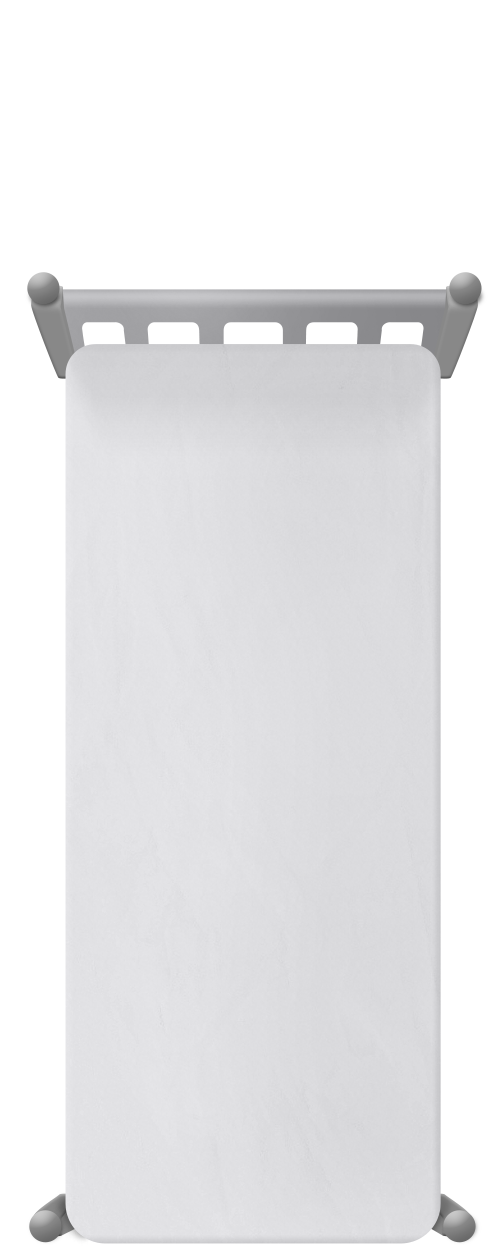
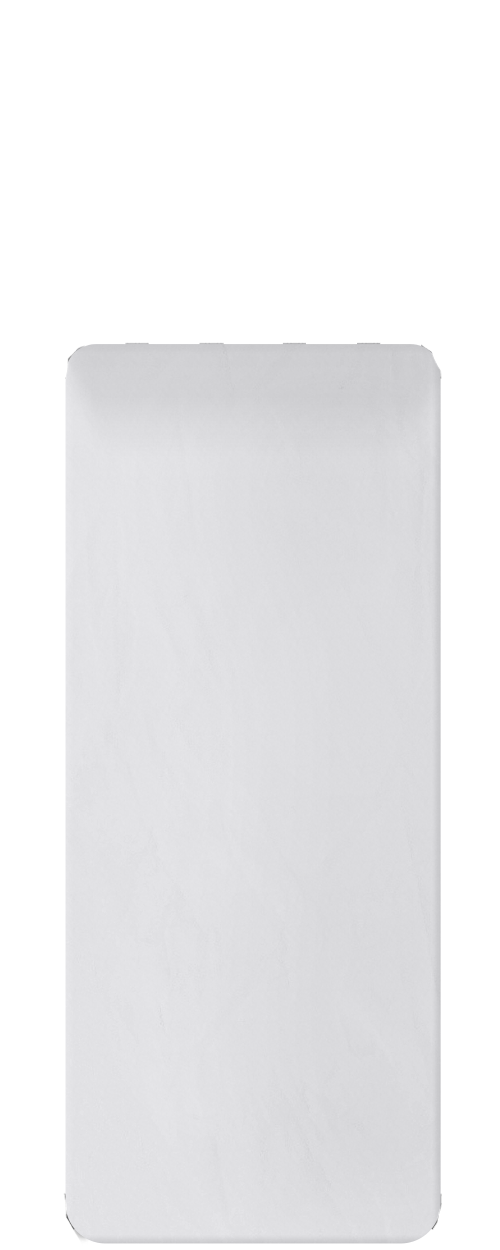
BlanketHood

Changed region(s): [[0.06, 0.2184, 0.96, 0.312], [0.87, 0.936, 0.96, 0.9984], [0.06, 0.936, 0.15, 0.9984]]

diff --git a/BondageClub/Assets/Female3DCG/Female3DCG.js b/BondageClub/Assets/Female3DCG/Female3DCG.js
@@ -1636,7 +1636,7 @@ var AssetFemale3DCG = [
 			  Block: ["ItemHands", "ItemVulva", "ItemButt", "ItemVulvaPiercings", "ItemNipplesPiercings"] },
 			{ Name: "PantyhoseBodyOpen", Fetish: ["Nylon"], Value: 75, Priority: 15, Difficulty: 3, SelfBondage: 4, Time: 30, RemoveTime: 20, Random: false, BuyGroup: "PantyhoseBody", AllowPose: ["Kneel"], SetPose: ["BackElbowTouch", "LegsClosed"], Effect: ["Block", "Prone"],
 			  Prerequisite: ["NotHogtied", "NotMounted", "NoFeetSpreader"], Hide: ["Cloth", "ClothLower", "Suit", "SuitLower"], Block: ["ItemHands",  "ItemNipplesPiercings"] },
-			  { Name: "WrappedBlanket", Extended: true, Value: 200, Difficulty: 15, SelfBondage: 3, Time: 40, RemoveTime: 30, Random: false, BuyGroup: "Bed", Prerequisite: ["NotSuspended", "NotHogtied", "NotKneelingSpread", "NoFeetSpreader"], Hide: ["Shoes", "Socks", "Cloth", "ClothLower", "Bra", "ItemNipplesPiercings", "ItemLegs"], HideItem: ["ItemFeetOrnateAnkleCuffs", "ItemFeetNylonRope", "ItemFeetHempRope", "ItemFeetLeatherBelt", "ItemFeetIrish8Cuffs", "ItemFeetDuctTape", "ItemFeetLeatherAnkleCuffs", "ItemNipplesLactationPump"], AllowPose: ["Kneel"], SetPose: ["BackElbowTouch", "LegsClosed"], Effect: ["Block", "Prone"], Block: ["ItemPelvis", "ItemTorso", "ItemBreast", "ItemHands", "ItemFeet", "ItemNipples", "ItemNipplesPiercings", "ItemVulva", "ItemVulvaPiercings", "ItemLegs", "ItemButt"], AllowType: ["ShouldersWrapped", "FeetWrapped", "FullWrapped"]},
+			  { Name: "WrappedBlanket", Extended: true, Value: -1, Difficulty: 15, SelfBondage: 3, Time: 40, RemoveTime: 30, Random: false, BuyGroup: "Bed", Prerequisite: ["NotSuspended", "NotHogtied", "NotKneelingSpread", "NoFeetSpreader"], Hide: ["Shoes", "Socks", "Cloth", "ClothLower", "Bra", "ItemNipplesPiercings", "ItemLegs"], HideItem: ["ItemFeetOrnateAnkleCuffs", "ItemFeetNylonRope", "ItemFeetHempRope", "ItemFeetLeatherBelt", "ItemFeetIrish8Cuffs", "ItemFeetDuctTape", "ItemFeetLeatherAnkleCuffs", "ItemNipplesLactationPump"], AllowPose: ["Kneel"], SetPose: ["BackElbowTouch", "LegsClosed"], Effect: ["Block", "Prone"], Block: ["ItemPelvis", "ItemTorso", "ItemBreast", "ItemHands", "ItemFeet", "ItemNipples", "ItemNipplesPiercings", "ItemVulva", "ItemVulvaPiercings", "ItemLegs", "ItemButt"], AllowType: ["ShouldersWrapped", "FeetWrapped", "FullWrapped"]},
 			AssetSpankingToys
 		],
 		Color: ["Default"]
@@ -2381,7 +2381,8 @@ var AssetFemale3DCG = [
 			{ Name: "PonyHood", Fetish: ["Pony"], Value: -1, Difficulty: 50, Time: 15, Random: false, AllowLock: true, DefaultColor: "#404040", Hide: ["HairFront", "HairBack", "Glasses", "ItemMouth", "ItemMouth2", "ItemMouth3", "HairAccessory1", "HairAccessory2", "Mask"], Effect: ["BlindHeavy", "DeafLight", "Prone", "GagNormal", "BlockMouth"], Block: ["ItemMouth", "ItemMouth2", "ItemMouth3", "ItemEars", "ItemNeck", "ItemHead", "ItemNose"] },
 			{ Name: "LeatherHoodOpenMouth", Fetish: ["Leather"], Value: 50, Difficulty: 50, Time: 15, AllowLock: true, DefaultColor: "#404040", Hide: ["HairFront", "HairBack", "Glasses", "HairAccessory1", "HairAccessory2", "Mask"], Effect: ["Prone", "BlindHeavy"], Block: ["ItemEars", "ItemHead", "ItemNose"] },
 			{ Name: "CanvasHood", Value: 50, Difficulty: 20, Time: 15, AllowLock: true, DefaultColor: "#a5a095", Hide: ["HairFront", "HairBack", "Glasses", "ItemMouth", "ItemMouth2", "ItemMouth3", "HairAccessory1", "HairAccessory2", "Mask"], Effect: ["Prone", "BlindHeavy", "GagHeavy", "BlockMouth", "DeafLight"], Block: ["ItemMouth", "ItemMouth2", "ItemMouth3", "ItemEars", "ItemNose", "ItemHead"] },
-			{ Name: "Pantyhose", Value: 10, Time: 5, Hide: ["Glasses", "Mask", "HairFront", "HairBack", "HairAccessory1", "HairAccessory2"], BuyGroup: "Pantyhose", Effect: ["BlindLight", "Prone"], Block: ["ItemMouth", "ItemMouth2", "ItemMouth3", "ItemNose", "ItemHead"] }
+			{ Name: "Pantyhose", Value: 10, Time: 5, Hide: ["Glasses", "Mask", "HairFront", "HairBack", "HairAccessory1", "HairAccessory2"], BuyGroup: "Pantyhose", Effect: ["BlindLight", "Prone"], Block: ["ItemMouth", "ItemMouth2", "ItemMouth3", "ItemNose", "ItemHead"] },
+			{ Name: "BlanketHood", Value: -1, BuyGroup: "Bed", Difficulty: 5, Time: 4, Hide: ["Head", "HairFront", "HairBack", "Glasses", "ItemMouth", "ItemMouth2", "ItemMouth3", "Hat", "HairAccessory1", "HairAccessory2", "Mask"], Block: ["ItemMouth", "ItemMouth2", "ItemMouth3", "ItemEars", "ItemNeck", "ItemHead", "ItemNose"], Effect: ["BlindLight", "Prone", "GagLight", "BlockMouth"] }
 		],
 	},
 
@@ -2478,6 +2479,7 @@ var AssetFemale3DCG = [
 			{ Name: "Crib", Fetish: ["ABDL"], Priority: 1, Value: 100, Difficulty: 0, SelfBondage: 1, Time: 15, RemoveTime: 10, IsRestraint: true, AllowLock: true, Left: -30, Top: -235, Effect: ["Freeze"], RemoveAtLogin: true, Prerequisite: ["AllFours", "NotSuspended", "NotHogtied", "NoFeetSpreader"], Extended: true, AllowType: ["Open", "Closed", "Stuffed"] },
 			{ Name: "Bed", Value: 100, Priority: 1, Difficulty: -20, SelfBondage: 0, Time: 5, RemoveTime: 5, Effect: ["Freeze", "Mounted"], Prerequisite: ["NotKneeling", "AllFours", "NotSuspended", "NotHogtied", "NoFeetSpreader"], BuyGroup: "Bed", RemoveItemOnRemove: [{ Name: "Covers", Group: "ItemAddon" }], Layer: [
 				{ Name: "Bed", AllowColorize: true },
+				{ Name: "Frame", AllowColorize: false},
 				{ Name: "Pillow", AllowColorize: false }
 			] },
 			{
